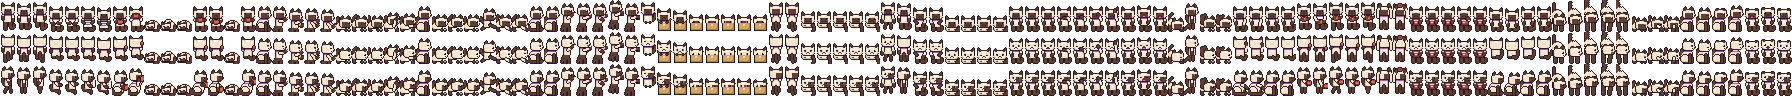
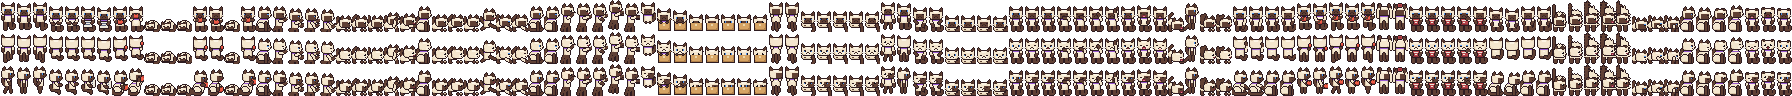
feat(cats): standoff cats bristle and puff up all over
The standoff poses now read as a Halloween cat. The back is a round
inverted-U arch that tops the head line by 3 px at the peak. Fur stands
on end around the whole body: tufts along the back, the neck, the chest,
the belly fringe and the tail make a jagged outline, and the cat grows
1-2 px on every side. The tail is a stiff upright bottle-brush. In1 shows
a ridge on the spine only, In2 half the tufts and half the arch, In3 and
the sway frames the full puff. Sway A and B shift the tufts by one px so
the fur shimmers. Tufts copy the neighbouring coat cell, so every breed
and pattern keeps its own colours.

Sleepy cats now fight less: CAT_PERSONALITY_TUNING gives sleepy a fight
multiplier of 0.5.

Changed region(s): [[0.8438, 0.3438, 0.9375, 0.625], [0.8438, 0.6562, 0.9062, 0.9375], [0.8438, 0.0, 0.9062, 0.2812]]

diff --git a/webview-ui/src/constants.ts b/webview-ui/src/constants.ts
@@ -759,7 +759,7 @@ export const CAT_PERSONALITY_TUNING: Record<
   scrappy: { fight: 5, spotFight: 2 },
   playful: { play: 3, tailChase: 3, chasePlay: 2, petActivity: 2 },
   pooper: { litter: 6, litterDue: 0.25, bowel: 3 },
-  sleepy: { sleep: 3, wander: 0.5 },
+  sleepy: { sleep: 3, wander: 0.5, fight: 0.5 },
   social: { encounter: 2.5, fight: 0.3, greetRub: 1.8 },
   zoomie: { wander: 3, zoomies: 2, sleep: 0.5 },
 };
